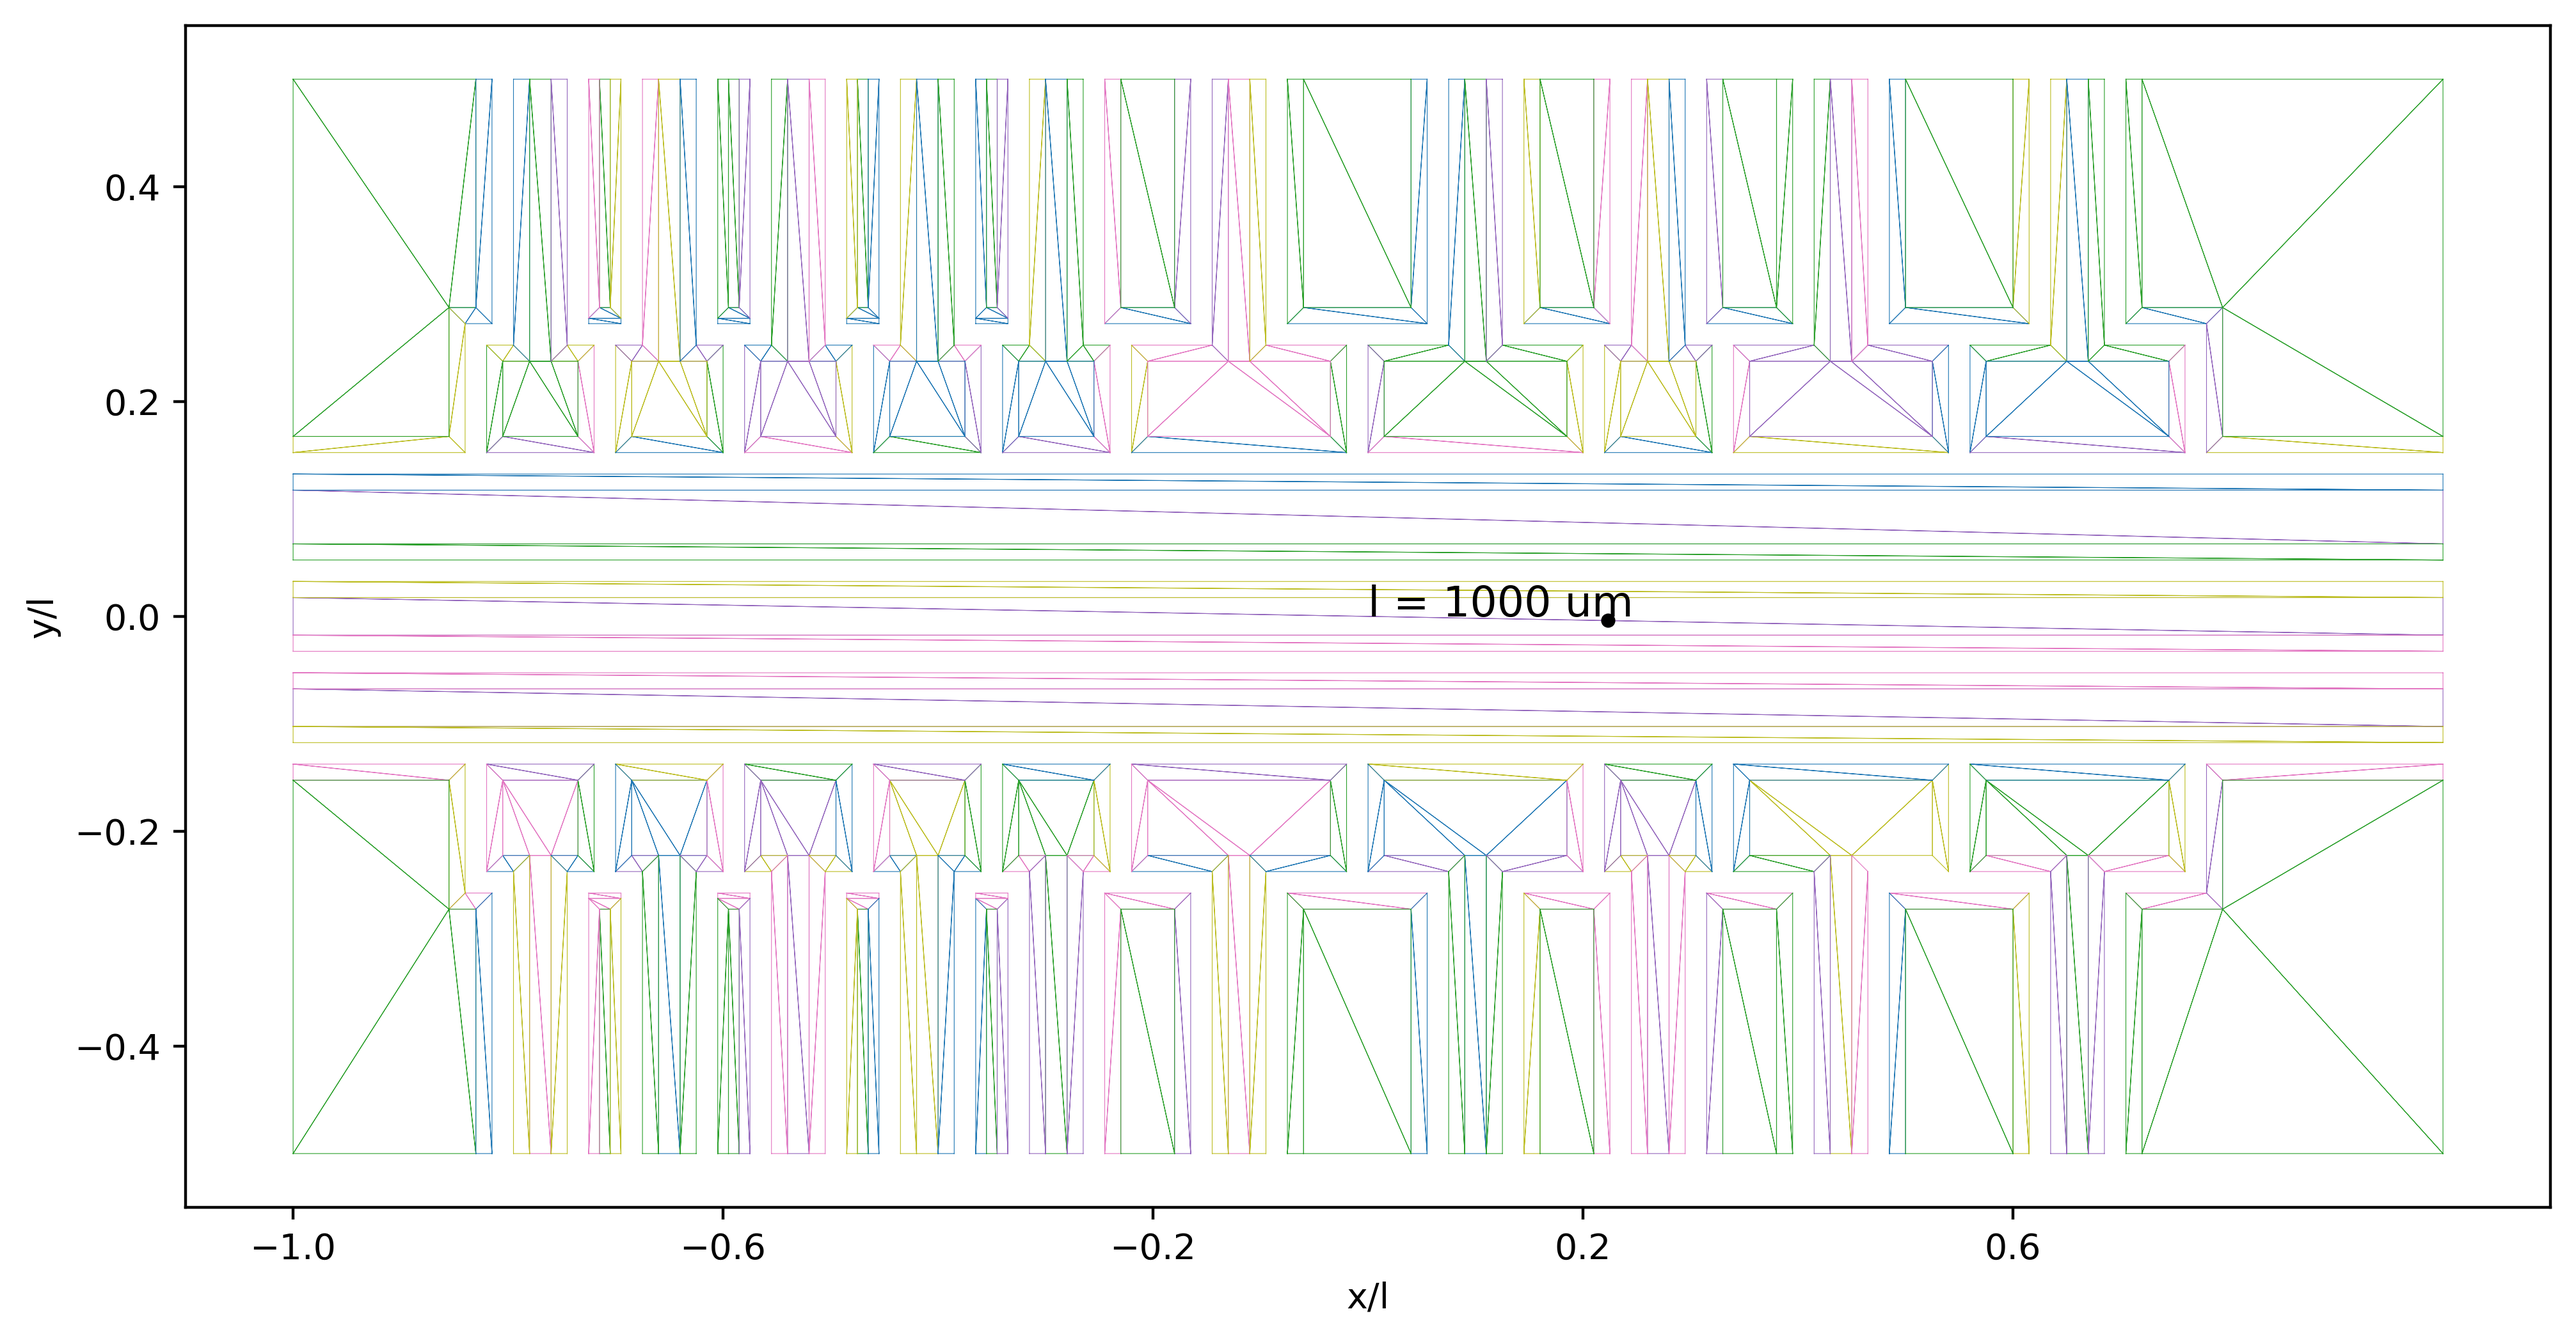
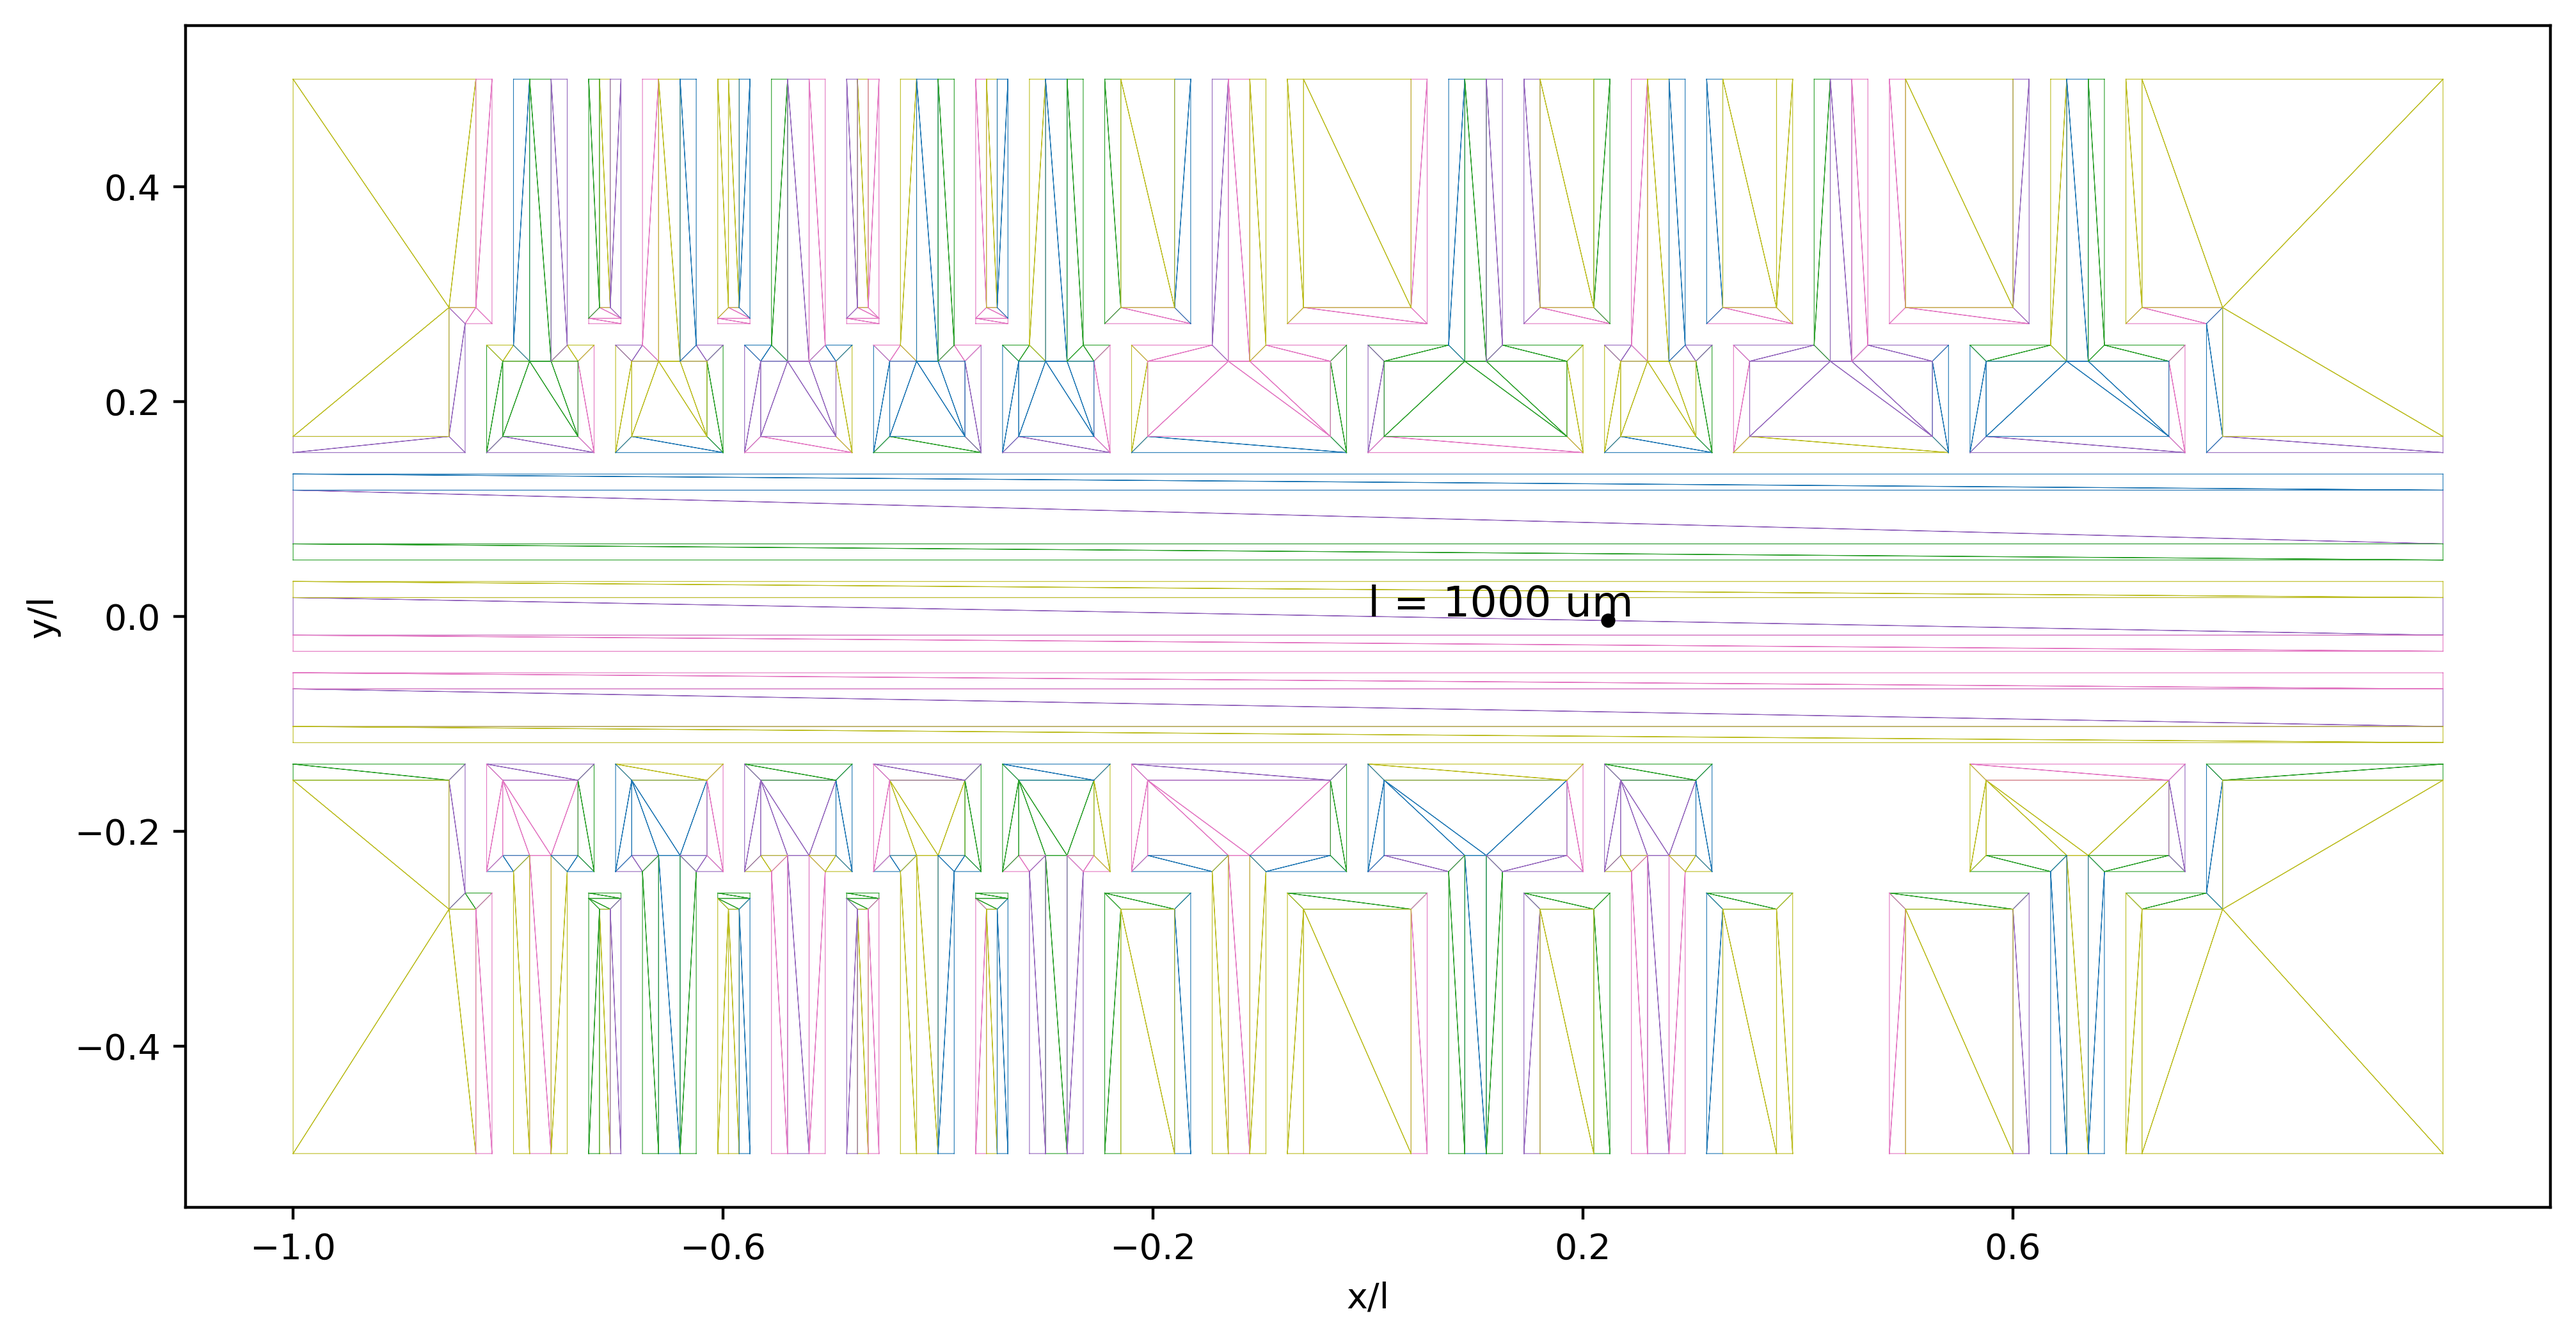
can run without DC12

diff --git a/bem/formats/stl.py b/bem/formats/stl.py
@@ -3,6 +3,54 @@ import struct
 
 import numpy as np
 
+def unify_dup_points(o_points,o_triangles):
+    # define a point index dictionary to combine same points
+    o_n = len(o_points)
+    uni_dict = {}
+    n_points = []
+    for i in range(o_n):
+        for j in uni_dict.keys():
+            # if point is the same
+            if np.linalg.norm(o_points[i]-o_points[j],1) < 1e-6:
+                uni_dict[i] = uni_dict[j]
+                break
+        else:
+            uni_dict[i] = len(n_points)
+            n_points.append(o_points[i])
+
+    n_points = np.array(n_points)
+
+    n_triangles = np.vectorize(lambda x:uni_dict[x])(o_triangles)
+    n_triangles = np.array(n_triangles,dtype = np.dtype(np.int32))
+
+    return n_points, n_triangles
+
+
+# check if it is right  handed
+def correct_normals(nm,o_points,o_triangles):
+    # hwh_warning this function just for check(raise error now)
+    # check if left or right
+    def _is_right(nm,a,b,c):
+        n = np.cross(b-a, c-a)
+        n /= np.sqrt(np.sum(np.square(n)))
+        return np.allclose(n, nm, rtol=1e-3, atol=1e-10)
+    o_n = len(o_points)
+    uni_dict = {}
+    n_triangles = []
+    for tri in list(o_triangles):
+        a = o_points[tri[0]]
+        b = o_points[tri[1]]
+        c = o_points[tri[2]]
+        if _is_right(nm,a,b,c):
+            n_triangles.append(tri)
+        else:
+            tri[1],tri[2] = tri[2],tri[1]
+            n_triangles.append(tri)
+            raise ValueError('not right hand')
+
+    return o_points, np.array(o_triangles)
+
+
 
 def read_stl(fil, ignore_attr_length=True):     # binary stl
     """reads binary STL in file "fil" with Inventor style
@@ -90,7 +138,8 @@ def partition_normals(normals,triangles,numbers=[],TOL=1e-6):
     return points_numbers, np.array(nm_unique,dtype=np.double)
 
 
-# wwc function
+# hwh function
+# partite by two standards:1.same normal 2. same interception 
 def partition_normals_and_interception(normals,triangles,numbers=[],TOL=1e-6, TOL2 = 1e-6):
     # hwh_warning: this TOL2 must be adapted with scale
     # hwh_warning: may be better to unify points in this step
@@ -139,6 +188,68 @@ def partition_normals_and_interception(normals,triangles,numbers=[],TOL=1e-6, TO
         index_numbers = np.c_[i, i+1, i+2].astype(np.intc)
         points_numbers.append( (plane_points,index_numbers) )
     return points_numbers, np.array(nm_unique,dtype=np.double)
+
+# hwh function
+# partite by three standards:1.same normal 2. same interception 3. single connectivity
+# automatically unify same points
+def partition_normals_interception_connectivity(normals,triangles,numbers=[],TOL=1e-6, TOL2 = 1e-6):
+    # hwh_warning: this TOL2 must be adapted with scale
+    """Partition points into different planes according to the normals in 
+    one electrode, for 3D/2D meshing (Shewchuk's triangle C code is 2D meshing).
+    Return points_numbers which has following format
+
+    [(plane1_points,serial_numbers1),(plane2_points,serial_numbers2),...]
+
+    plane_points -- array([ [x1,y1,z1],[x2,y2,z2],... [xn,yn,zn] ])
+    serial_numbers -- array([ [0,1,2],[3,4,5],... [n-3,n-2,n-1] ])
+
+    TOL: normal deviation tolerances
+    """
+    # compute interception
+    interce = []
+    for nm,tr in zip(normals,triangles):
+        nm0 = np.dot(nm,tr[0])
+        nm1 = np.dot(nm,tr[1])
+        nm2 = np.dot(nm,tr[2])
+        interce.append((nm0+nm1+nm2)/3)
+    interceptions = np.array(interce)
+
+    nm_unique = [normals[0]]      # normals[0] as the first nm
+    ic_unique = [interceptions[0]]      # normals[0] as the first nm
+    points = [[]]    # Each sublist [] represents a plane
+    for nm, tr, ic in zip(normals, triangles,interceptions):
+        add_plane = True
+        # Search existing normals in nm_unique, in reversed order. (Faces in the same plane are often ajacent.)
+        for ith in range(len(nm_unique)-1,-1,-1):   # ith normal -- ith plane
+            if np.linalg.norm(nm-nm_unique[ith]) < TOL and np.linalg.norm(ic-ic_unique[ith]) < TOL2:
+                # Plane points aren't grouped by triangles -- [array([x1,y1,z1]),array([x2,y2,z2]), ...]
+                points[ith].extend(tr)
+                add_plane = False
+                break
+        # All normals don't coincide with the new nm, record it.
+        if add_plane:
+            nm_unique.append(nm)
+            ic_unique.append(ic)
+            points.append([])
+            points[-1].extend(tr)
+    points_numbers = []
+    for plane,nm in zip(points,nm_unique):
+        plane_points = np.ascontiguousarray(plane,dtype=np.double)
+        i = np.arange(0,plane_points.shape[0],3)    # shape[0] is the number of points in the plane.
+        index_numbers = np.c_[i, i+1, i+2].astype(np.intc)
+        # unify duplicated points
+        #plane_points,index_numbers = unify_dup_points(plane_points,index_numbers) 
+        # verify it is right handed
+        plane_points,index_numbers = correct_normals(nm, plane_points, index_numbers)
+
+        points_numbers.append( (plane_points,index_numbers) )
+
+    # split into single connectivity branches
+    #for plane,nm in
+
+    return points_numbers, np.array(nm_unique,dtype=np.double)
+
+
 
 # wwc function. Copied from cpy.py. This function only needs the coordinates of 3 points in
 # triangles to split normals, but we alreadly have normals imported from stl file. So use 
@@ -212,7 +323,7 @@ def stl_to_mesh(normals, triangles, attributes, scale=None, rename=None, quiet=T
         else:
             n = "stl_%i" % a    # default name
         if partition:    # Designed for 3D multiplane partition.  
-            o[n], planes = partition_normals_and_interception(nms, trs)
+            o[n], planes = partition_normals_interception_connectivity(nms, trs)
             if not quiet:
                 print("%i planes in electrode %s"%(len(planes),n))
                 print("normals vectors:\n", planes)

diff --git a/examples/SimpleTrap_new/SimpleTrap_0305.py b/examples/SimpleTrap_new/SimpleTrap_0305.py
@@ -73,10 +73,9 @@ el_colordict = {8776:"DC3"}
 
 color_dict = {
     meshlab_bemCol['bem30']:"DC0",
-    
     meshlab_bemCol['bem25']:"RF",
     meshlab_bemCol['bem1'] : "DC1",
-    meshlab_bemCol['bem2'] : "DC2",
+    #meshlab_bemCol['bem2'] : "DC2",
     meshlab_bemCol['bem3'] : "DC3",
     meshlab_bemCol['bem4'] : "DC4",
     meshlab_bemCol['bem5'] : "DC5",
@@ -152,16 +151,17 @@ mpl.rcParams['lines.linewidth'] = 0.2 ###########
 
 plot_mesh(xl,yl,mesh,scale,'fig1.png')
 
-#mesh.triangulate(opts="q20u",new = False)
-#plot_mesh(xl,yl,mesh,scale,'fig2.png')
+mesh.triangulate(opts="q25Q",new = False)
+plot_mesh(xl,yl,mesh,scale,'fig2.png')
  # "inside", "outside" set different mesh densities.Q
 # mesh.areas_from_constraints(Sphere(center=np.array([xl,yl,zl]),
 #            radius=10*factor, inside=0.1*factor**2, outside=1000))
 # mesh.triangulate(opts="",new = False)
+print('--------------')
 mesh.areas_from_constraints(Sphere(center=np.array([xl,yl,zl]),
            radius=rad, inside=inside, outside=outside))
 # # retriangulate quality and quiet with areas
-mesh.triangulate(opts="q25Q",new = False)
+mesh.triangulate(opts="q20Q",new = False)
 plot_mesh(xl,yl,mesh,scale,'fig3.png')
 if test_cvg:
     mesh_fine = copy.deepcopy(mesh)

diff --git a/bem/triangulation.py b/bem/triangulation.py
@@ -259,7 +259,7 @@ class Triangulation(object):
         """
         # logging.debug("calling triangulate()")
         _args_to_pass = copy.deepcopy(self._args)
-        self.unify_dup_points(_args_to_pass)
+        #self.unify_dup_points(_args_to_pass)
         ret = triangulate(opts=opts, **_args_to_pass)
         # logging.debug("done with triangulate()")
         if new:
@@ -380,7 +380,9 @@ class Mesh(OrderedDict):
         else:
             obj = self
         for name, faces in self.items():
+            print('start triangulate',name)
             obj[name] = [face.triangulate(opts, new) for face in faces]
+            print('finish triangulate',name)
         obj.gather()
         return obj
 
